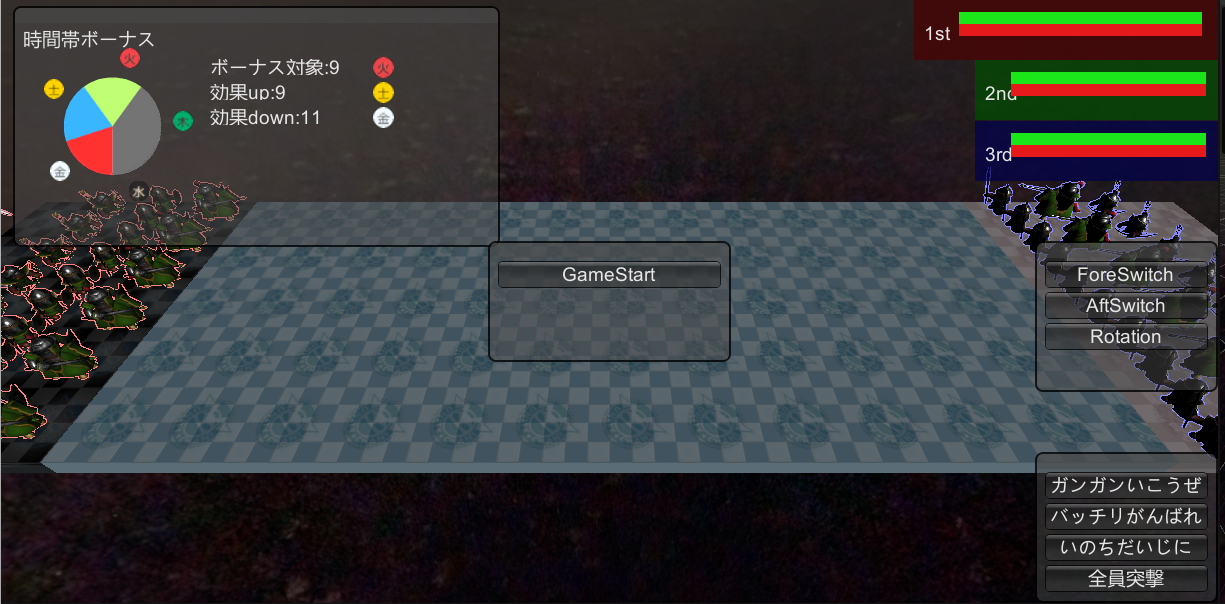
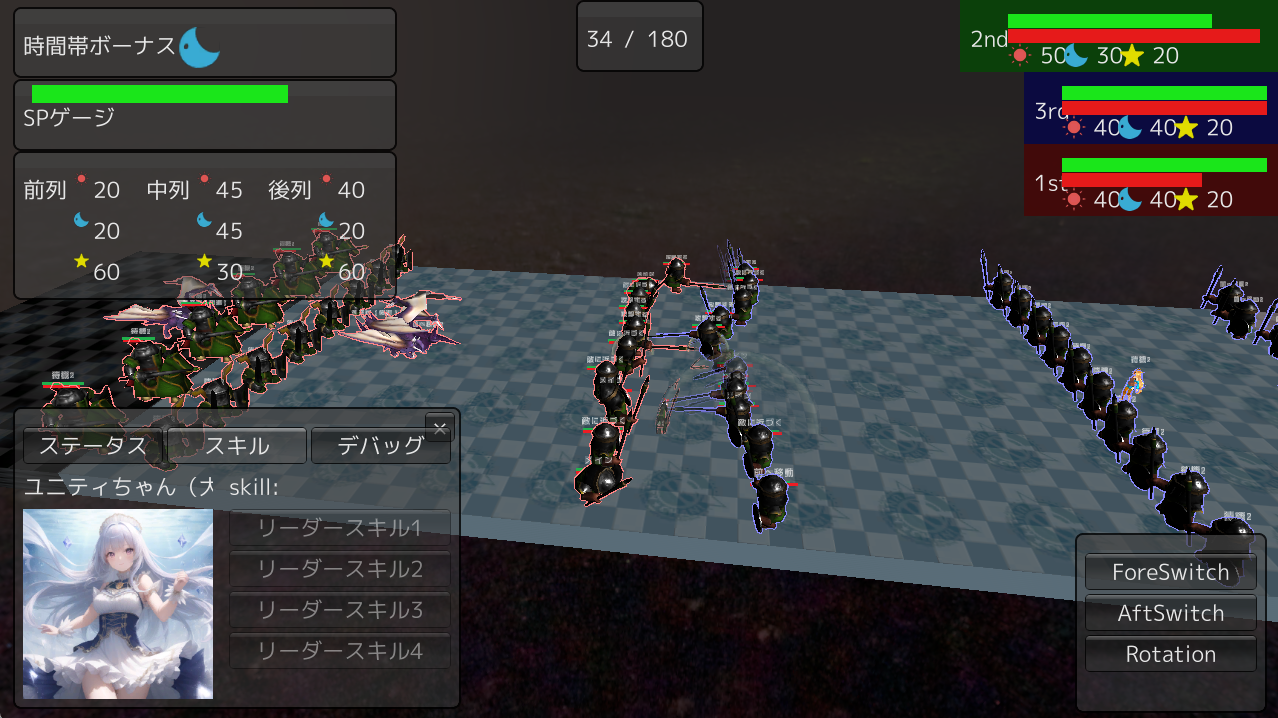
現在までの変更を反映

diff --git a/README.md b/README.md
@@ -2,6 +2,13 @@
 windows11  
 
 ## 更新情報
+2024/02/09  
+・部隊編成で１列に１体リーダーを付けられるように変更
+・複数部隊を編成できるように機能追加  
+・バトルの属性について見直し  
+　・属性は５種類から３種類に変更
+　・時間帯ボーナスで提示されている属性値が高い方にノックバック発生率upの効果  
+
 2024/01/20<br>
 ・バトルの時間帯効果の仕様変更<br>
 ・制限時間追加<br>
@@ -14,7 +21,7 @@ https://drive.google.com/file/d/102MZDu3U-mV5XX5F8Xj__aQSM23Rx1Wp/view?usp=shari
 
 上記のリンクからzipをダウンロード<br>
 解凍後中のUnityProject.exeを実行する<br>
-（ダウンロードの際に出るエラーは無視、exe実行時の警告も無視）<br>
+（ダウンロードの際に出るエラーは無視、exe実行時の警告も無視）<br>https://drive.google.com/file/d/102MZDu3U-mV5XX5F8Xj__aQSM23Rx1Wp/view?usp=sharingk
 
 ## タイトル
 ![タイトル表示](images/title.png "title")<br>
@@ -51,7 +58,7 @@ https://drive.google.com/file/d/102MZDu3U-mV5XX5F8Xj__aQSM23Rx1Wp/view?usp=shari
 タウンからクエストを開始するとバトルが開始される<br>
 ![バトル](images/battle.png "battle")<br>
 バトルは開始すると自動で進行する。<br>
-一番後ろにいるリーダーを倒すことで勝利できる。<br>
+すべての列の敵を倒すことで勝利できる。<br>
 ・ForeSiwthで前・中列の入れ替えができる<br>
 ・AftSwitchで中・後列の入れ替えができる<br>
 ・Rotationで前・中・後列の入れ替えができる<br>
